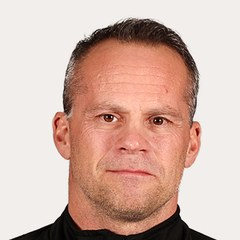
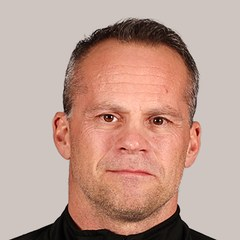
V2 ambassador: drop 'i samarbete med', add merit, grey circle behind photo
Removes the eyebrow, adds a short merit line (5x svensk mastare i
tyngdlyftning) in orange under the title, and re-composites Gunnar's
cutout onto a grey (#cec5c1) circle so it reads on the off-white
section. Quote still a draft pending approval.

diff --git a/components/v2/ambassador-quote.tsx b/components/v2/ambassador-quote.tsx
@@ -7,10 +7,7 @@ export function AmbassadorQuote() {
   return (
     <section className="bg-card py-20 md:py-28" aria-label="Gunnar Lögdahl om DYGN">
       <div className="mx-auto max-w-3xl px-6 text-center">
-        <p className="text-[11px] font-medium uppercase tracking-[0.2em] text-muted-foreground">
-          I samarbete med
-        </p>
-        <blockquote className="mx-auto mt-7 max-w-2xl font-fraunces text-2xl leading-[1.32] text-ink text-balance md:text-[2rem]">
+        <blockquote className="mx-auto max-w-2xl font-fraunces text-2xl leading-[1.32] text-ink text-balance md:text-[2rem]">
           {"”Jag jobbar med spelare som ska prestera dag efter dag. Det svåra är sällan passet, det är att få grunden att sitta, varje dygn. DYGN gör just den biten enkel.”"}
         </blockquote>
 
@@ -25,6 +22,9 @@ export function AmbassadorQuote() {
           <span className="leading-tight">
             <span className="block text-sm font-semibold text-ink">Gunnar Lögdahl</span>
             <span className="mt-0.5 block text-xs text-muted-foreground">Fystränare, Eskilstuna GUIF</span>
+            <span className="mt-1.5 block text-[11px] font-medium uppercase tracking-[0.12em] text-primary">
+              5× svensk mästare i tyngdlyftning
+            </span>
           </span>
         </figcaption>
       </div>
